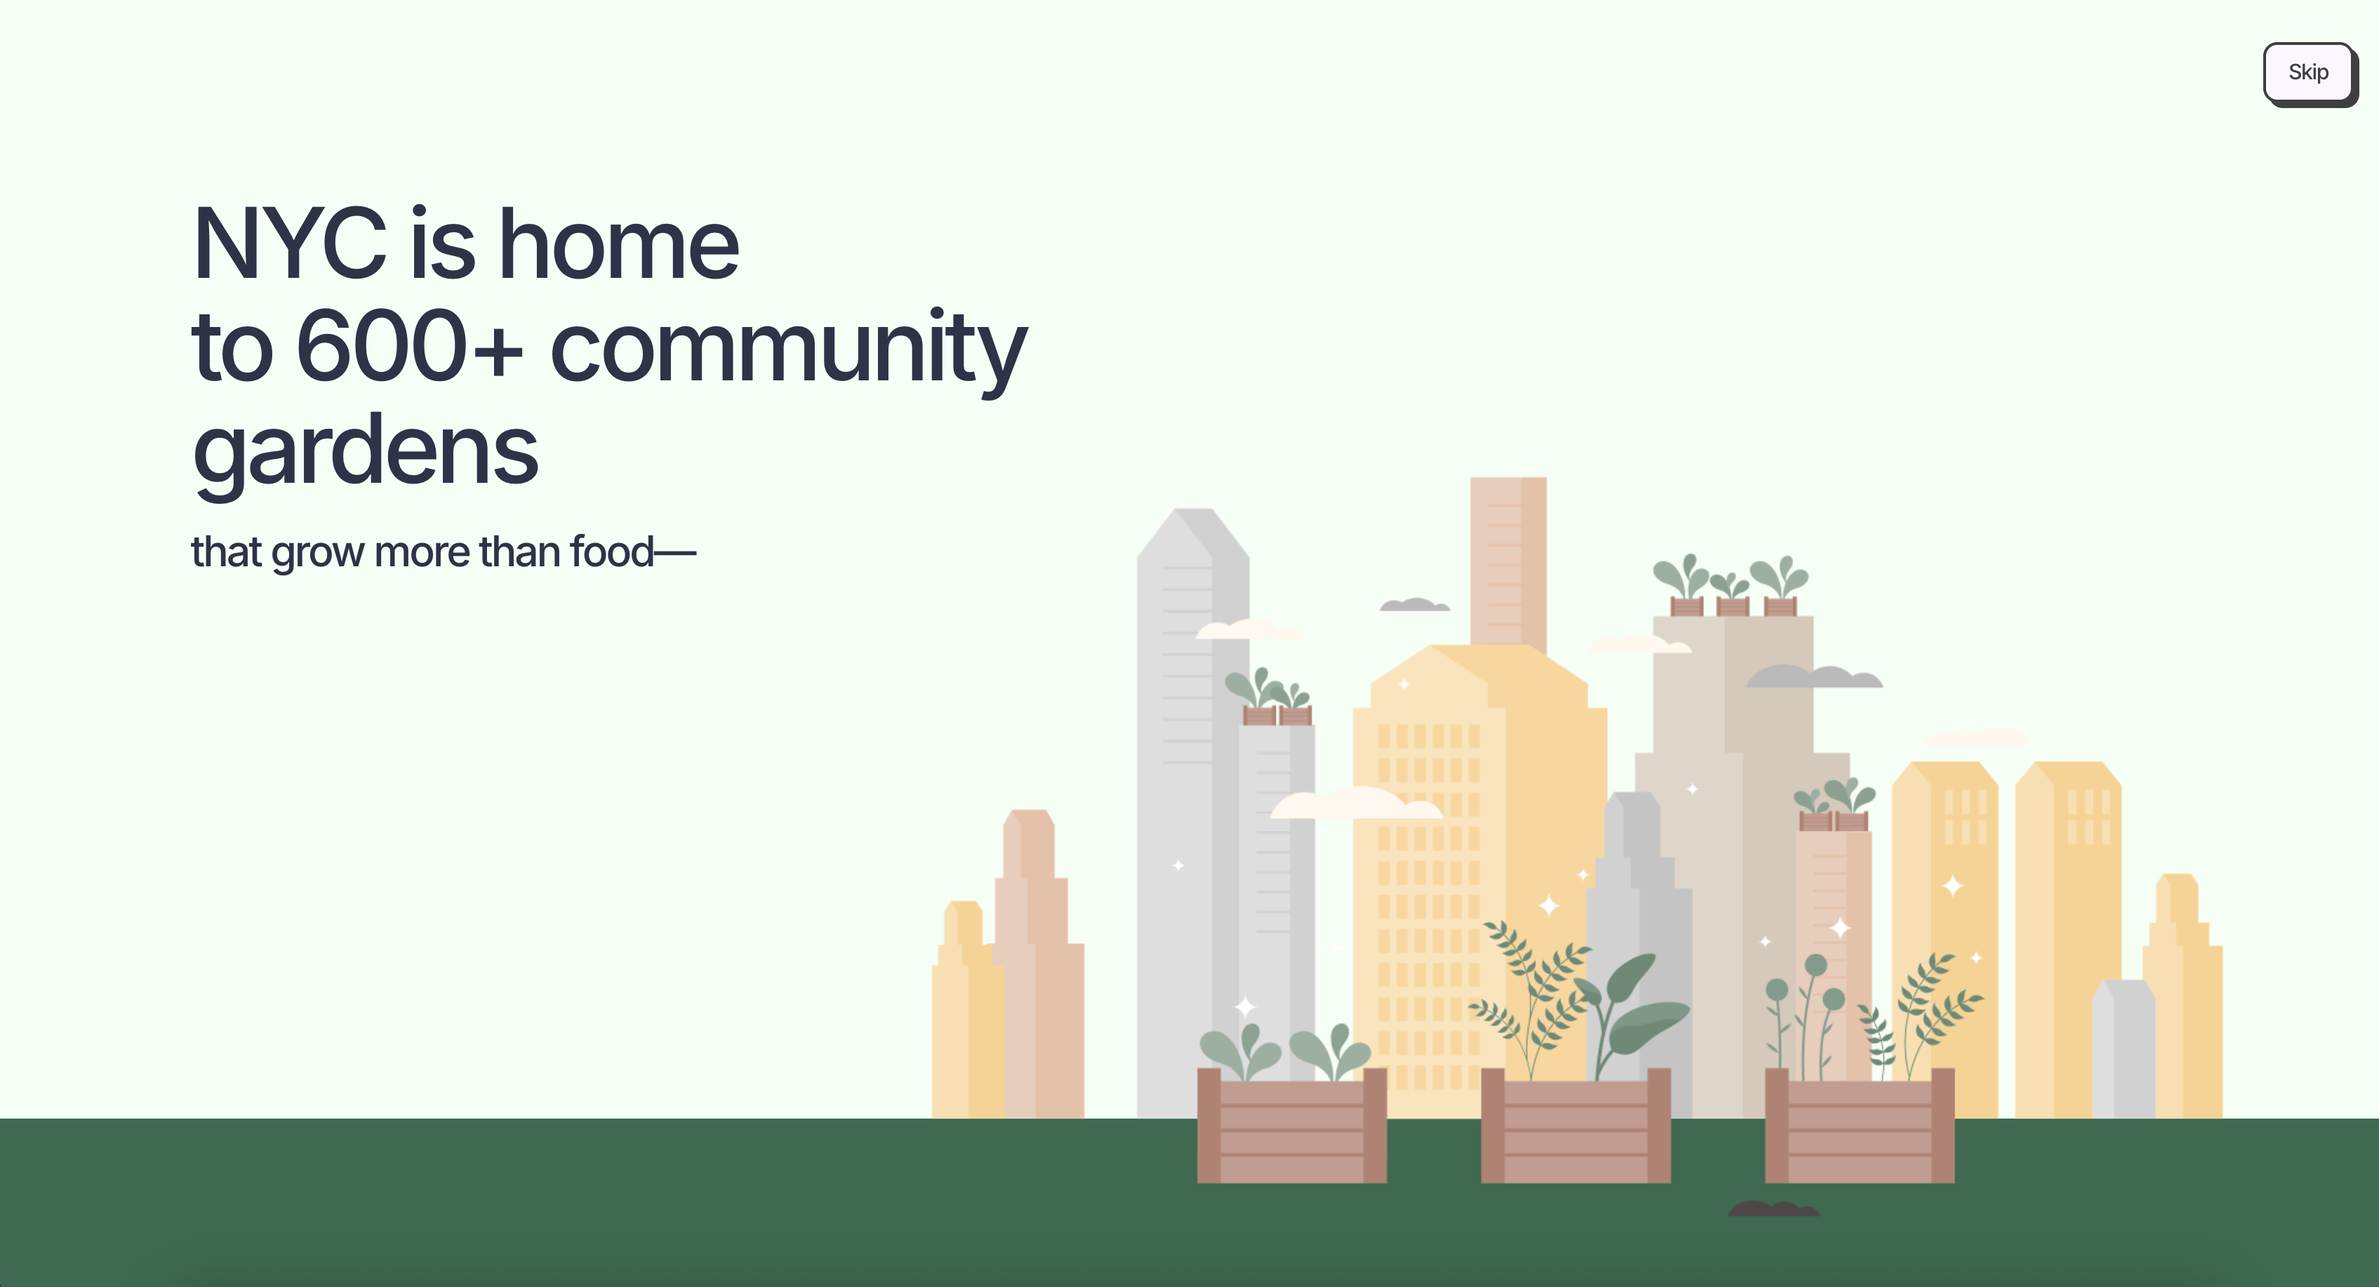
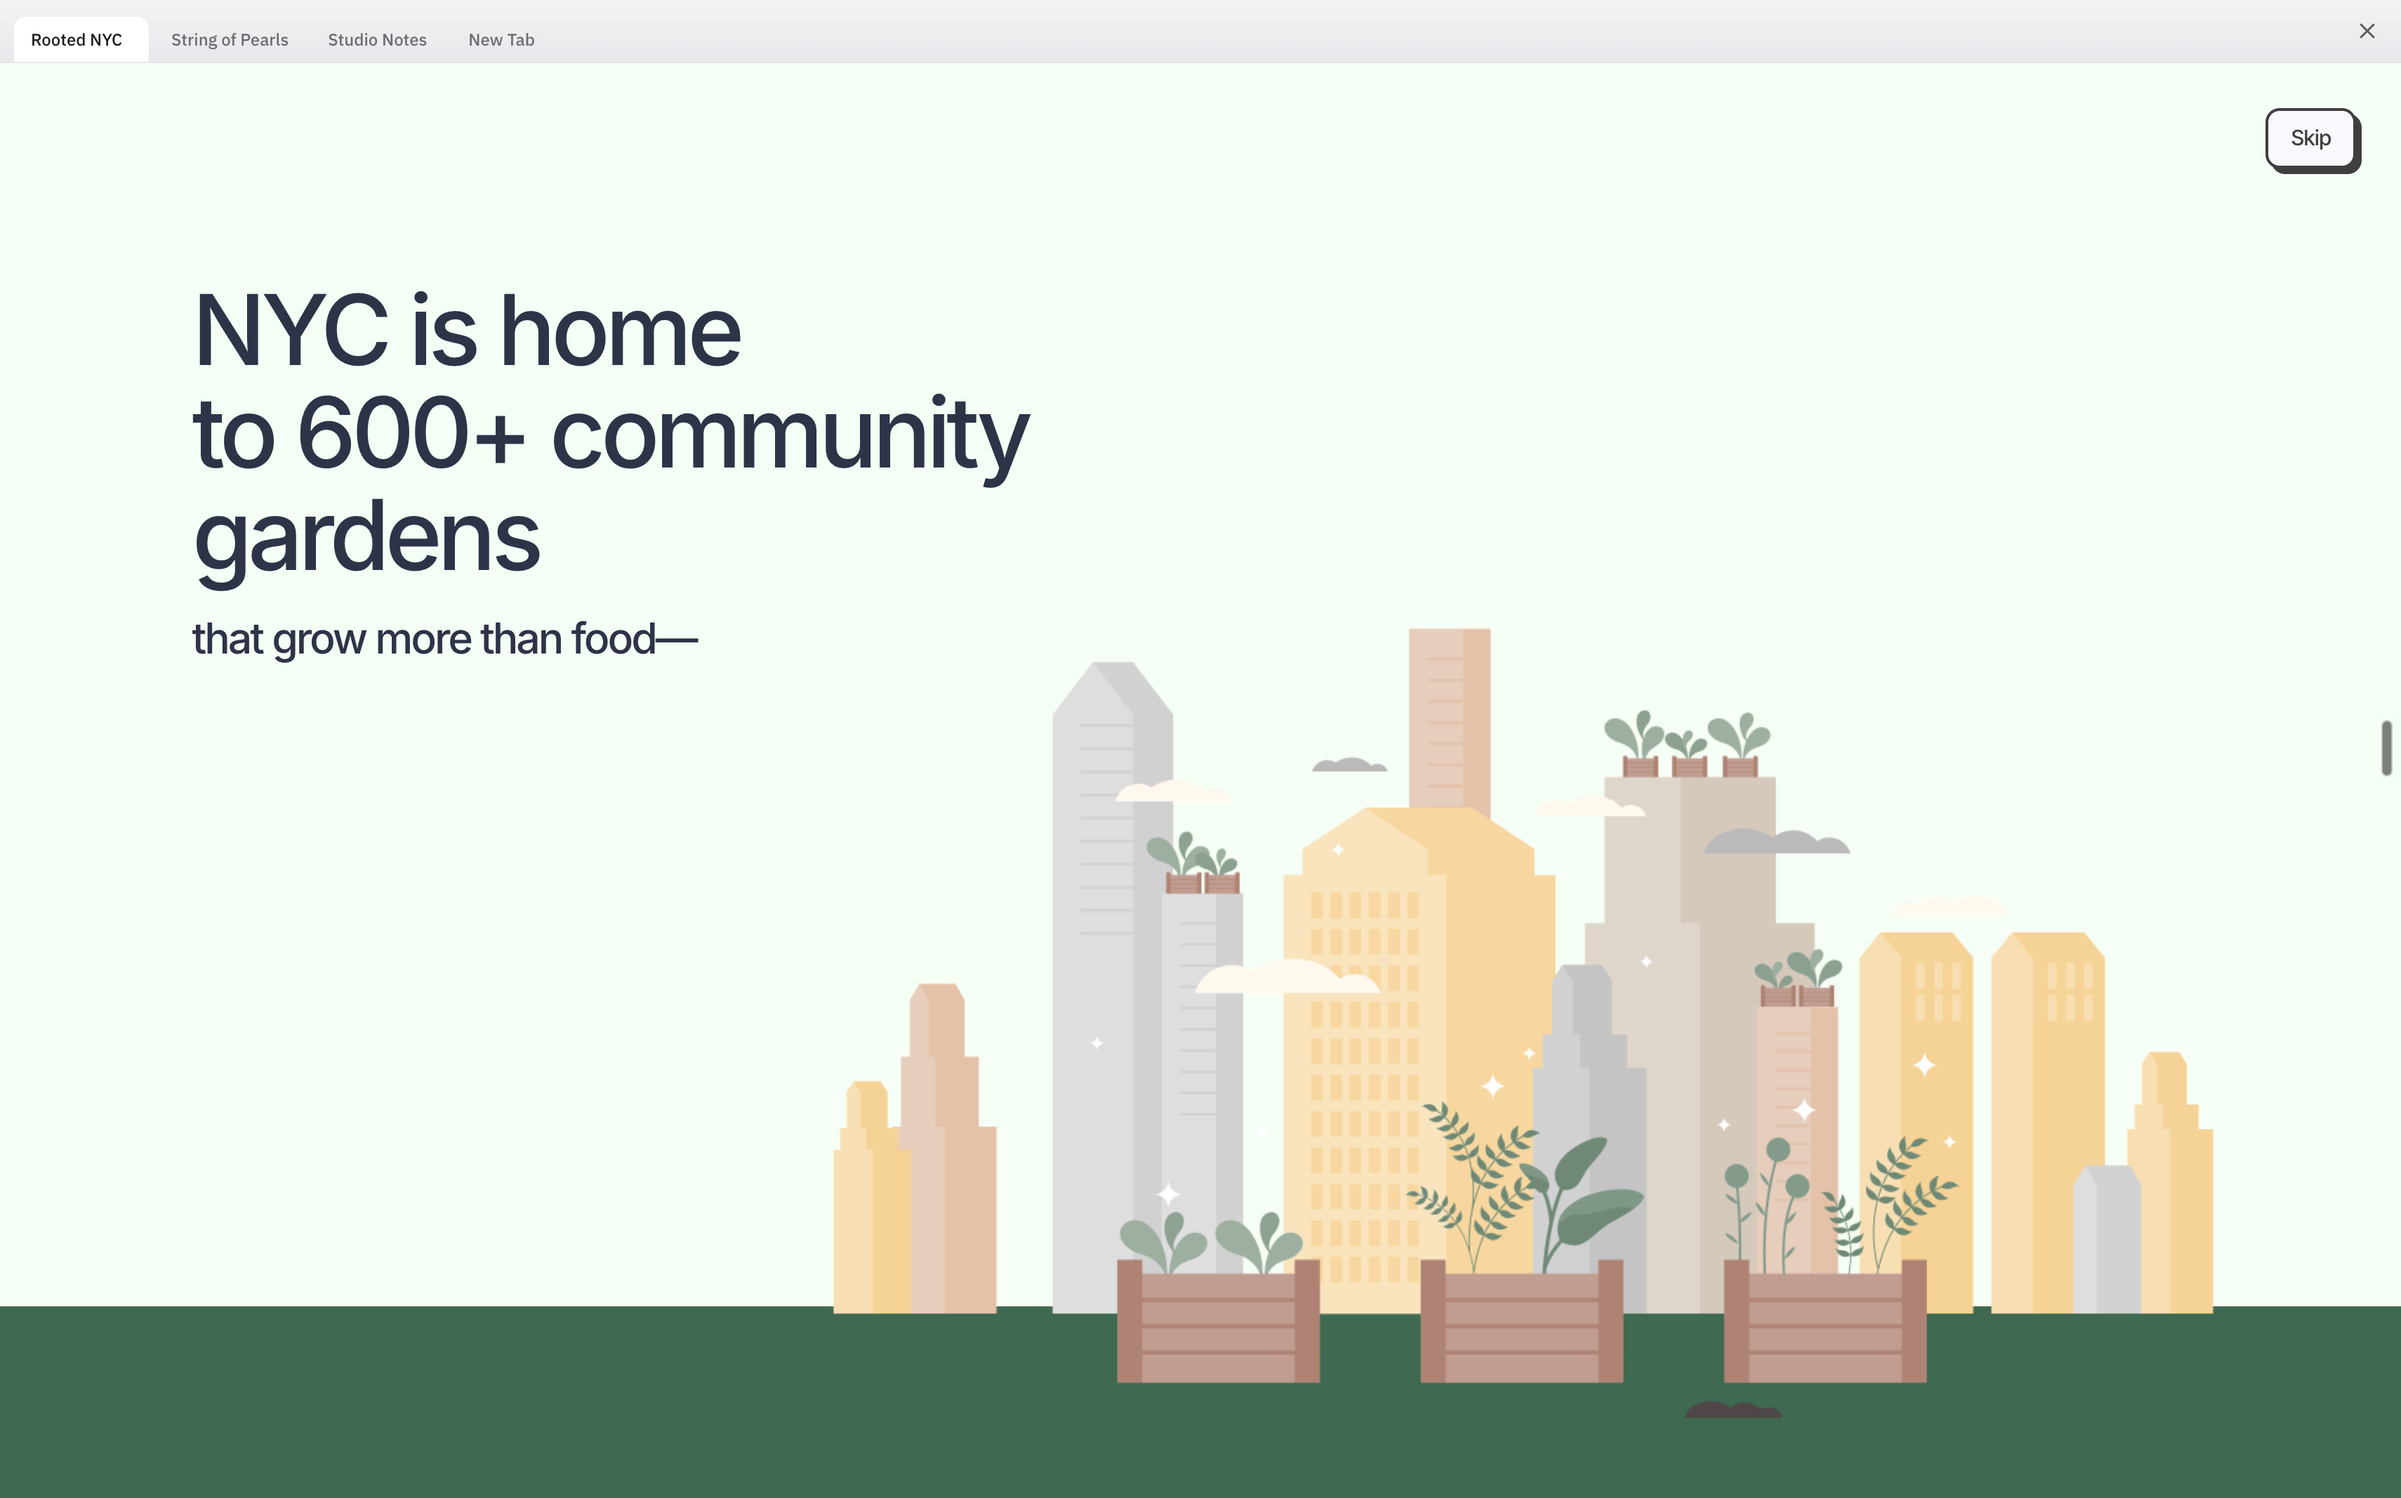
Flush monitor content to the bezel and keep zoom aspect-correct.
Update idle art from the new Rooted NYC still, remove the gray gap at the screen edge, and use object-fit cover so the zoom morph never stretches the screenshot.

diff --git a/src/App.tsx b/src/App.tsx
@@ -86,9 +86,16 @@ function App() {
       left: screenRect.left,
       width: screenRect.width,
       height: screenRect.height,
-      borderRadius: 2,
+      borderRadius: 0,
     })
-    gsap.set(morphImg, { opacity: 1 })
+    // Keep the still's aspect: cover the morph box (never stretch).
+    gsap.set(morphImg, {
+      opacity: 1,
+      width: '100%',
+      height: '100%',
+      objectFit: 'cover',
+      objectPosition: 'top center',
+    })
 
     const tl = gsap.timeline({
       onComplete: () => {
@@ -98,7 +105,7 @@ function App() {
     })
     timelineRef.current = tl
 
-    // Morph screen rect → fullscreen; aspect ratio eases with the bounds.
+    // Grow the clip rect to the viewport. Image uses cover so aspect stays intact.
     tl.to(
       morph,
       {
@@ -106,7 +113,6 @@ function App() {
         left: 0,
         width: window.innerWidth,
         height: window.innerHeight,
-        borderRadius: 0,
         duration: 1.15,
         ease: 'power2.inOut',
       },
@@ -173,7 +179,7 @@ function App() {
       >
         <img
           ref={morphImgRef}
-          src="/browser-idle-screenshot.jpg"
+          src="/rooted-nyc-screenshot.png"
           alt=""
           className="screen-morph-img"
         />

diff --git a/src/lib/config.ts b/src/lib/config.ts
@@ -1,10 +1,14 @@
-/** Percentage of the desk image occupied by the iMac screen content. */
+/** Percentage of the desk image occupied by the iMac screen content.
+ *  Flushed to the inner edge of the black bezel (no gray gap). */
 export const SCREEN_RECT = {
-  left: 0.34810126582278483,
-  top: 0.4442467378410439,
-  width: 0.3287183544303797,
-  height: 0.2734282325029656,
+  left: 0.34651898734177217,
+  top: 0.44187425860023727,
+  width: 0.33188291139240506,
+  height: 0.28113879003558717,
 } as const
+
+/** Native pixel size of the screen content area in desk-final.jpg */
+export const SCREEN_PIXELS = { width: 839, height: 474 } as const
 
 export type AppTab = {
   id: string

diff --git a/src/App.css b/src/App.css
@@ -15,14 +15,15 @@
   z-index: 45;
   overflow: hidden;
   pointer-events: none;
-  background: #f5f5f7;
+  background: transparent;
 }
 
 .screen-morph-img {
   display: block;
   width: 100%;
   height: 100%;
-  object-fit: fill;
+  object-fit: cover;
+  object-position: top center;
   border: 0;
 }
 

diff --git a/src/components/DeskScene.css b/src/components/DeskScene.css
@@ -37,7 +37,8 @@
 
 .screen-idle {
   position: absolute;
-  object-fit: fill;
+  object-fit: cover;
+  object-position: top center;
   pointer-events: none;
   transition: opacity 0.2s ease;
   border: 0;

diff --git a/scripts/detect_and_compose.py b/scripts/detect_and_compose.py
@@ -97,61 +97,23 @@ def detect_screen(img: Image.Image) -> tuple[int, int, int, int]:
 def compose_browser_idle(
     out_path: Path,
     content_path: Path,
-    screen_w: int = 831,
-    screen_h: int = 461,
+    screen_w: int = 839,
+    screen_h: int = 474,
 ) -> None:
-    """Idle monitor art at exact screen aspect: tabs + close, full page, no letterbox border."""
+    """Cover-fit the provided screenshot into the monitor rect — no gray frame, no extra chrome."""
     content = Image.open(content_path).convert("RGB")
-    tab_h = 40
-    img = Image.new("RGB", (screen_w, screen_h), (245, 245, 247))
-    draw = ImageDraw.Draw(img)
-    draw.rectangle([0, 0, screen_w, tab_h], fill=(240, 240, 243))
-
-    try:
-        font = ImageFont.truetype("/usr/share/fonts/truetype/dejavu/DejaVuSans.ttf", 11)
-    except Exception:
-        font = ImageFont.load_default()
-
-    tabs = [
-        ("Rooted NYC", True),
-        ("String of Pearls", False),
-        ("Studio Notes", False),
-        ("New Tab", False),
-    ]
-    tx = 8
-    for label, active in tabs:
-        tw = max(88, int(draw.textlength(label, font=font) + 20))
-        if tx + tw > screen_w - 36:
-            break
-        y0 = 8
-        fill = (255, 255, 255) if active else (228, 228, 232)
-        draw.rounded_rectangle([tx, y0, tx + tw, tab_h], radius=6, fill=fill)
-        draw.text(
-            (tx + 10, y0 + 8),
-            label,
-            fill=(29, 29, 31) if active else (107, 107, 112),
-            font=font,
-        )
-        tx += tw + 3
-
-    cx, cy = screen_w - 16, 20
-    draw.line([(cx - 5, cy - 5), (cx + 5, cy + 5)], fill=(92, 92, 98), width=2)
-    draw.line([(cx + 5, cy - 5), (cx - 5, cy + 5)], fill=(92, 92, 98), width=2)
-
     cw, ch = content.size
-    area_w, area_h = screen_w, screen_h - tab_h
-    scale = area_w / cw
-    nw, nh = area_w, int(ch * scale)
+    scale = max(screen_w / cw, screen_h / ch)
+    nw, nh = int(cw * scale + 0.5), int(ch * scale + 0.5)
     resized = content.resize((nw, nh), Image.Resampling.LANCZOS)
-    if nh >= area_h:
-        top_crop = nh - area_h
-        img.paste(resized.crop((0, top_crop, nw, nh)), (0, tab_h))
-    else:
-        draw.rectangle([0, tab_h, screen_w, screen_h], fill=(236, 242, 236))
-        img.paste(resized, (0, tab_h + (area_h - nh)))
-
-    img.save(out_path, quality=94, optimize=True)
-    print(f"wrote {out_path} size={img.size}")
+    left = (nw - screen_w) // 2
+    # Prefer keeping the top (browser tabs); crop bottom if needed.
+    top = 0
+    if top + screen_h > nh:
+        top = nh - screen_h
+    out = resized.crop((left, top, left + screen_w, top + screen_h))
+    out.save(out_path, quality=94, optimize=True)
+    print(f"wrote {out_path} size={out.size}")
 
 
 def main() -> None:
